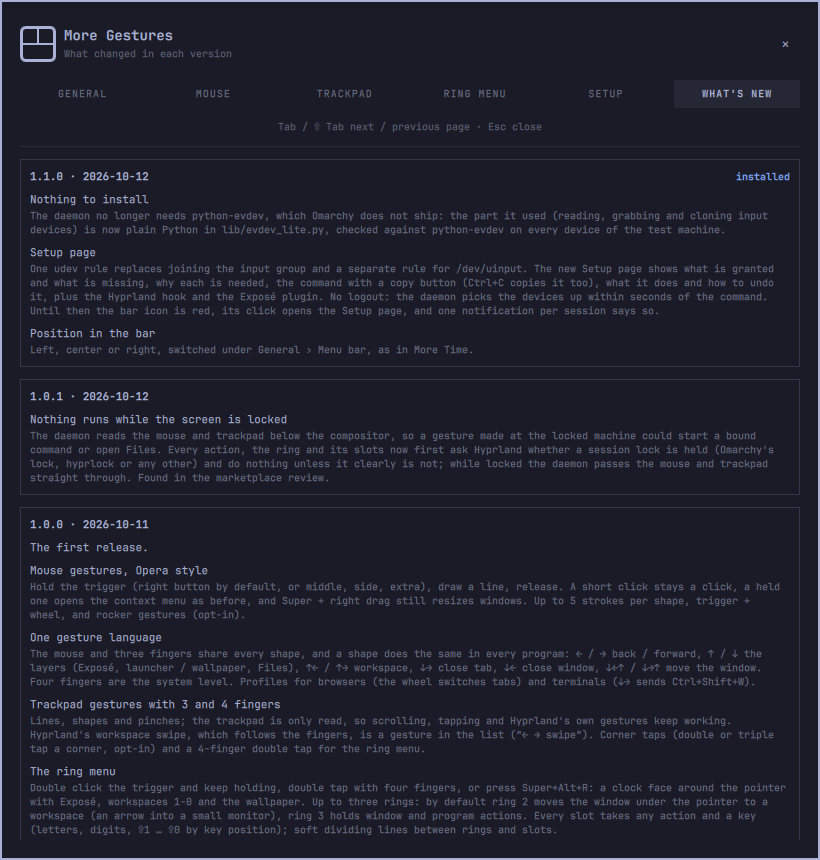
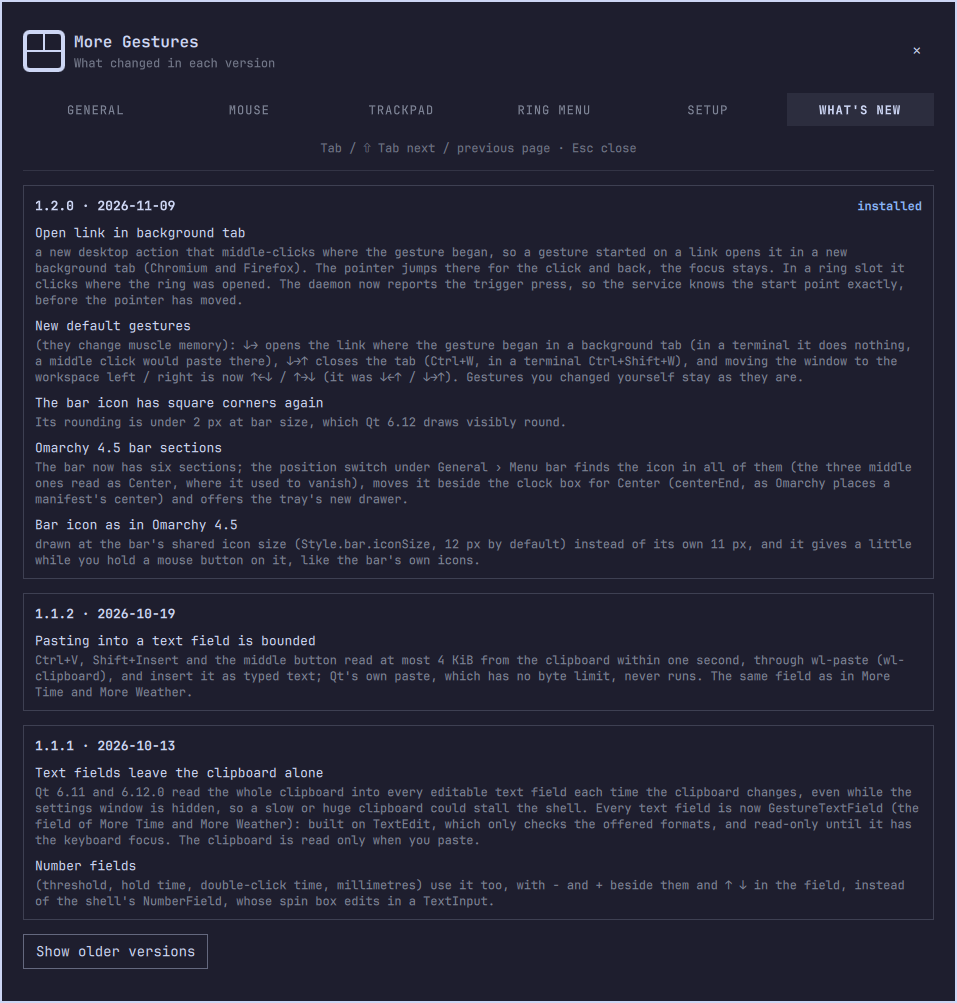
1.2.0 pictures: the link gesture, the new defaults, the tray position

diff --git a/README.md b/README.md
@@ -150,7 +150,7 @@ trail under Mouse › Trail. With animations off every style is a still frame.
 
 ## Screenshots
 
-![A gesture being drawn: ↓→ closes the tab](screenshots/gesture.png)
+![A gesture being drawn: ↓→ opens the link in a background tab](screenshots/gesture.png)
 
 ![Eleven ring styles](screenshots/styles.png)
 
